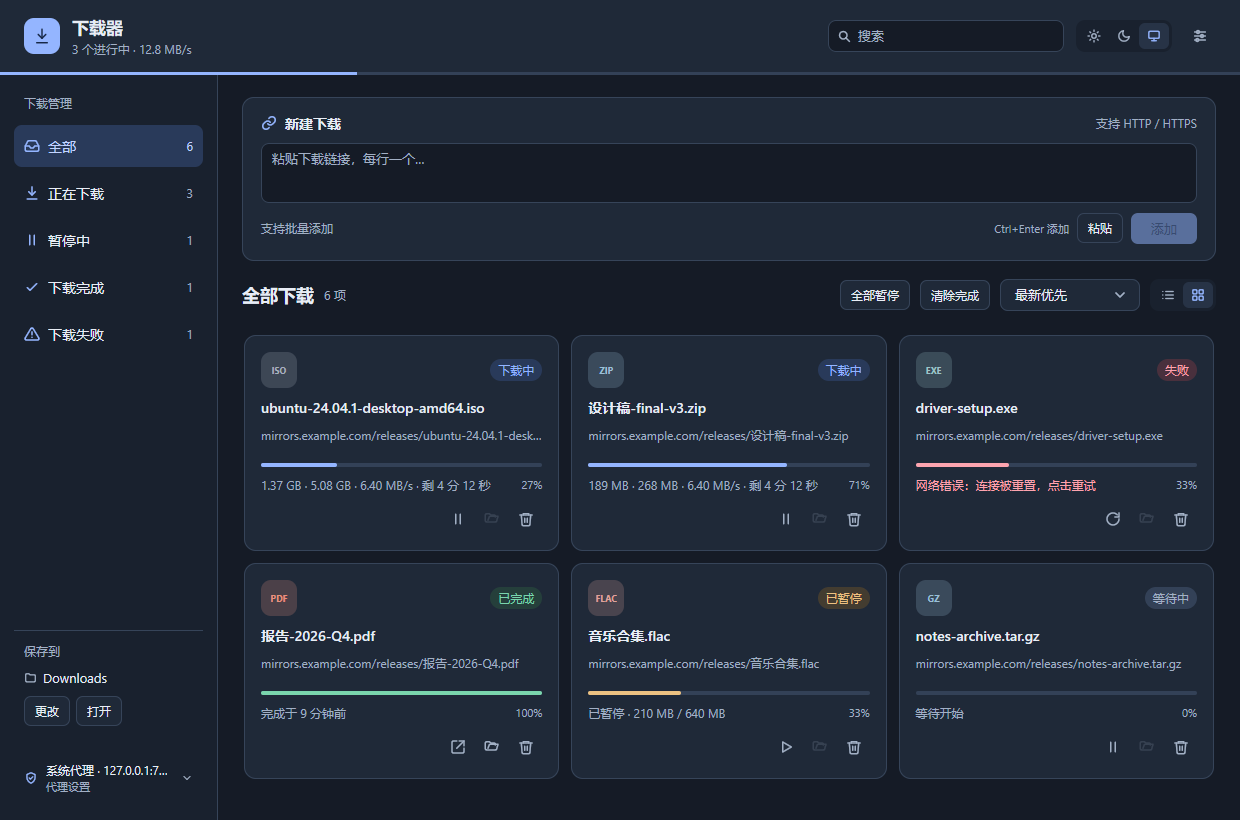
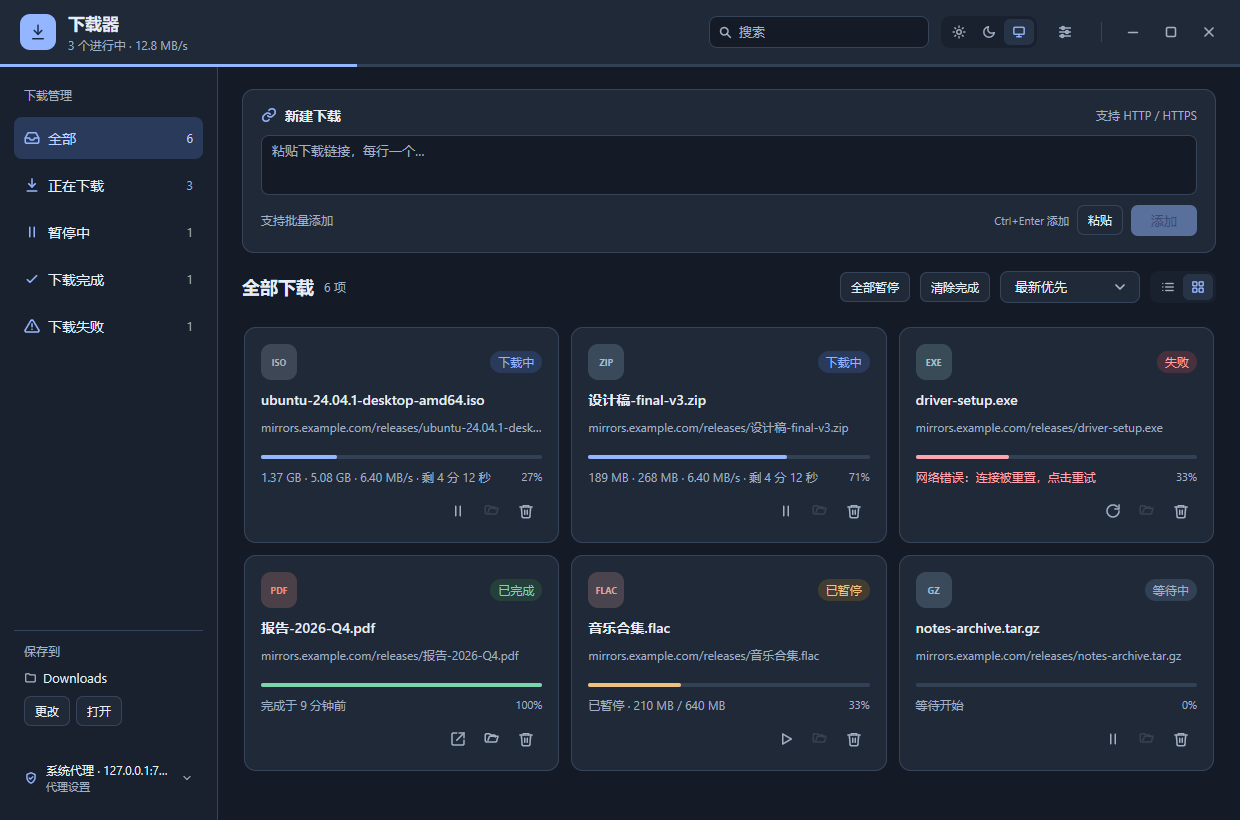
Add themed custom title bar and window controls
Integrate window dragging and compact caption buttons with light and dark themes, maximize/restore state, and Windows snap layouts. Add interaction coverage, hover snapshots, and updated documentation screenshots.

diff --git a/view_titlebar_test.go b/view_titlebar_test.go
@@ -1,0 +1,120 @@
+package main
+
+import (
+	"testing"
+
+	"github.com/egoist/mygo/ui"
+)
+
+type testTitleBarWindow struct {
+	maximized      bool
+	minimized      int
+	maximizedCalls int
+	restored       int
+	closed         int
+}
+
+func (w *testTitleBarWindow) Minimize() { w.minimized++ }
+func (w *testTitleBarWindow) Maximize() {
+	w.maximized = true
+	w.maximizedCalls++
+}
+func (w *testTitleBarWindow) Unmaximize() {
+	w.maximized = false
+	w.restored++
+}
+func (w *testTitleBarWindow) IsMaximized() bool { return w.maximized }
+func (w *testTitleBarWindow) Close()            { w.closed++ }
+
+func TestTitleBarWindowActions(t *testing.T) {
+	for _, dark := range []bool{false, true} {
+		name := "light"
+		if dark {
+			name = "dark"
+		}
+		t.Run(name, func(t *testing.T) {
+			window := &testTitleBarWindow{}
+			modal := false
+			tt := ui.NewTester(func(c *ui.Context) {
+				p := paletteFor(c.Theme().Dark)
+				c.SetTheme(p.theme())
+				ui.Row(c).FillWidth().Height(titleBarHeight).DragWindow().Children(func() {
+					ui.Spacer(c)
+					windowButtons(c, p, window)
+				})
+				if modal {
+					ui.Modal(c, &modal, func() { ui.Text(c, "设置") })
+				}
+			}, 960, 640)
+			tt.SetDark(dark)
+			if err := tt.Click("最小化窗口"); err != nil {
+				t.Fatal(err)
+			}
+			if err := tt.Click("最大化窗口"); err != nil {
+				t.Fatal(err)
+			}
+			if !window.maximized || !tt.HasText("还原窗口") {
+				t.Fatal("maximizing did not update the control")
+			}
+			// The same keyed button keeps keyboard focus as its label changes.
+			tt.Key(0, ui.KeyEnter)
+			if window.maximized || !tt.HasText("最大化窗口") {
+				t.Fatal("the restore control lost focus after maximizing")
+			}
+			// A title-bar double click or system command changes native state too.
+			window.maximized = true
+			tt.Frame()
+			if err := tt.Click("还原窗口"); err != nil {
+				t.Fatal(err)
+			}
+			modal = true
+			tt.Frame()
+			if err := tt.Click("关闭窗口"); err != nil {
+				t.Fatal(err)
+			}
+			if window.closed != 0 {
+				t.Fatal("a modal let a click reach the window close button")
+			}
+			if err := tt.Click("关闭窗口"); err != nil {
+				t.Fatal(err)
+			}
+			if window.minimized != 1 || window.maximizedCalls != 1 || window.restored != 2 || window.closed != 1 {
+				t.Fatalf("unexpected window actions: %+v", window)
+			}
+		})
+	}
+}
+
+func TestTitleBarAtMinimumWindowSize(t *testing.T) {
+	a := newTestApp(t, &fakeEngine{})
+	tt := testerFor(a)
+	tt.SetSize(960, 640)
+	for _, label := range []string{"最小化窗口", "最大化窗口", "关闭窗口"} {
+		r, ok := tt.Find(label)
+		if !ok || r.X < 0 || r.Y < 0 || r.X+r.W > 960 || r.Y+r.H > titleBarHeight {
+			t.Fatalf("%s is outside the title bar: %+v", label, r)
+		}
+	}
+	if err := tt.Click("搜索下载"); err != nil {
+		t.Fatal(err)
+	}
+	tt.Type("file")
+	if a.query != "file" {
+		t.Fatal("the draggable title bar swallowed search input")
+	}
+	if err := tt.Click("深色"); err != nil {
+		t.Fatal(err)
+	}
+	if !a.dark {
+		t.Fatal("the draggable title bar swallowed the theme control")
+	}
+	if err := tt.Click("设置"); err != nil {
+		t.Fatal(err)
+	}
+	if !a.settingsOpen {
+		t.Fatal("the draggable title bar swallowed the settings control")
+	}
+	if err := tt.Click("完成"); err != nil {
+		t.Fatal(err)
+	}
+}

diff --git a/view.go b/view.go
@@ -65,28 +65,36 @@ func (a *app) shortcuts(c *ui.Context) {
 	}
 }
 
-// header is the app's top bar.
+// header is the custom title bar. Interactive children take their own input;
+// the remaining area drags the window and handles title-bar double clicks.
 func (a *app) header(c *ui.Context, summary download.Summary) {
 	p := a.palette
-	ui.Row(c).Height(72).FillWidth().Padding(0, 24).Gap(12).AlignItems(ui.Center).Background(p.Card).Children(func() {
-		logo := ui.Box(c).Size(36, 36).Radius(10).Background(p.Accent)
-		logo.Center()
-		logo.Children(func() {
-			ui.Icon(c, icoDownload).FontSize(18).TextColor(p.OnAccent)
+	ui.Row(c).Height(titleBarHeight).FillWidth().Background(p.Card).DragWindow().Children(func() {
+		ui.Row(c).Grow(1).Padding(0, 20).Gap(12).AlignItems(ui.Center).Children(func() {
+			logo := ui.Box(c).Size(36, 36).Radius(10).Background(p.Accent)
+			logo.Center()
+			logo.Children(func() {
+				ui.Icon(c, icoDownload).FontSize(18).TextColor(p.OnAccent)
+			})
+			ui.Column(c).Gap(3).Children(func() {
+				ui.Text(c, "下载器").FontSize(17).Bold()
+				ui.Text(c, headerSubtitle(summary)).FontSize(12).TextColor(p.Muted)
+			})
+			ui.Spacer(c)
+			search := ui.SearchField(c, &a.query).Width(220).FontSize(13).
+				Background(p.Canvas).Label("搜索下载").Placeholder("搜索文件名或链接")
+			if a.focusSearch {
+				search.Focus()
+				a.focusSearch = false
+			}
+			a.themeSwitch(c)
+			iconButton(c, p, "设置", icoSettings, false, func() { a.openSettings(0) })
 		})
-		ui.Column(c).Gap(3).Children(func() {
-			ui.Text(c, "下载器").FontSize(17).Bold()
-			ui.Text(c, headerSubtitle(summary)).FontSize(12).TextColor(p.Muted)
-		})
-		ui.Spacer(c)
-		search := ui.SearchField(c, &a.query).Width(236).FontSize(13).
-			Background(p.Canvas).Label("搜索下载").Placeholder("搜索文件名或链接")
-		if a.focusSearch {
-			search.Focus()
-			a.focusSearch = false
+		var window titleBarWindow
+		if a.win != nil {
+			window = a.win
 		}
-		a.themeSwitch(c)
-		iconButton(c, p, "设置", icoSettings, false, func() { a.openSettings(0) })
+		windowButtons(c, p, window)
 	})
 }
 

diff --git a/view_titlebar.go b/view_titlebar.go
@@ -1,0 +1,69 @@
+package main
+
+import "github.com/egoist/mygo/ui"
+
+const titleBarHeight = 64
+
+// titleBarWindow is implemented by *mygo.Window. Close follows the normal
+// window lifecycle, including the app's save-on-quit handler.
+type titleBarWindow interface {
+	Minimize()
+	Maximize()
+	Unmaximize()
+	IsMaximized() bool
+	Close()
+}
+
+func windowButtons(c *ui.Context, p palette, window titleBarWindow) {
+	services := c.Services()
+	ui.Row(c.Key("window-controls")).Height(titleBarHeight).Padding(0, 14, 0, 0).
+		Gap(4).AlignItems(ui.Center).Children(func() {
+		ui.Box(c).Size(1, 20).Background(p.Border).Margin(0, 10, 0, 0)
+		windowButton(c.Key("minimize"), p, "最小化窗口", icoMinimize, false).OnClick(func() {
+			if window != nil {
+				window.Minimize()
+			}
+		})
+		label, icon := "最大化窗口", icoMaximize
+		if window != nil && window.IsMaximized() {
+			label, icon = "还原窗口", icoRestore
+		}
+		windowButton(c.Key("maximize"), p, label, icon, false).MaximizeButton().OnClick(func() {
+			if window != nil {
+				if window.IsMaximized() {
+					window.Unmaximize()
+				} else {
+					window.Maximize()
+				}
+				services.Invalidate()
+			}
+		})
+		windowButton(c.Key("close"), p, "关闭窗口", icoWindowX, true).OnClick(func() {
+			if window != nil {
+				window.Close()
+			}
+		})
+	})
+}
+
+func windowButton(c *ui.Context, p palette, label string, icon *ui.SVG, isClose bool) ui.Element {
+	button := ui.ButtonBase(c).Size(34, 32).Radius(8).Center().
+		Label(label).Tooltip(label)
+	fg := p.Muted
+	if button.Pressed() {
+		button.Background(p.Track)
+		fg = p.Text
+	} else if button.Hovered() {
+		button.Background(p.CardHover)
+		fg = p.Text
+	}
+	if isClose && (button.Hovered() || button.Pressed()) {
+		button.Background(p.DangerTint)
+		if button.Pressed() {
+			button.Background(p.DangerTint.Mix(p.Danger, 0.12))
+		}
+		fg = p.Danger
+	}
+	button.Children(func() { ui.Icon(c, icon).FontSize(16).TextColor(fg) })
+	return button
+}

diff --git a/icons.go b/icons.go
@@ -8,11 +8,20 @@ func svgIcon(shapes string) *ui.SVG {
 	return ui.MustParseSVG([]byte(`<svg xmlns="http://www.w3.org/2000/svg" viewBox="0 0 24 24" fill="none" stroke="currentColor" stroke-width="2" stroke-linecap="round" stroke-linejoin="round">` + shapes + `</svg>`))
 }
 
+// windowIcon keeps caption glyphs balanced on a smaller, finer stroke grid.
+func windowIcon(shapes string) *ui.SVG {
+	return ui.MustParseSVG([]byte(`<svg xmlns="http://www.w3.org/2000/svg" viewBox="0 0 16 16" fill="none" stroke="currentColor" stroke-width="1.25" stroke-linecap="round" stroke-linejoin="round">` + shapes + `</svg>`))
+}
+
 var (
 	icoDownload   = svgIcon(`<path d="M12 3v12"/><path d="m7 10 5 5 5-5"/><path d="M5 21h14"/>`)
 	icoPlay       = svgIcon(`<path d="M7 4.5v15l13-7.5z"/>`)
 	icoPause      = svgIcon(`<path d="M8.5 5v14"/><path d="M15.5 5v14"/>`)
 	icoX          = svgIcon(`<path d="m6 6 12 12"/><path d="m18 6-12 12"/>`)
+	icoMinimize   = windowIcon(`<path d="M3.5 8.5h9"/>`)
+	icoMaximize   = windowIcon(`<rect x="3.5" y="3.5" width="9" height="9" rx="1"/>`)
+	icoRestore    = windowIcon(`<path d="M5.5 2.5h7a1 1 0 0 1 1 1v7"/><rect x="2.5" y="5.5" width="8" height="8" rx="1"/>`)
+	icoWindowX    = windowIcon(`<path d="m4 4 8 8m0-8-8 8"/>`)
 	icoRefresh    = svgIcon(`<path d="M21 12a9 9 0 1 1-2.6-6.4"/><path d="M21 3v6h-6"/>`)
 	icoFolder     = svgIcon(`<path d="M3 7a2 2 0 0 1 2-2h4l2 2h8a2 2 0 0 1 2 2v9a2 2 0 0 1-2 2H5a2 2 0 0 1-2-2z"/>`)
 	icoFolderPlus = svgIcon(`<path d="M3 7a2 2 0 0 1 2-2h4l2 2h8a2 2 0 0 1 2 2v9a2 2 0 0 1-2 2H5a2 2 0 0 1-2-2z"/><path d="M12 11v6"/><path d="M9 14h6"/>`)

diff --git a/snapshot_test.go b/snapshot_test.go
@@ -66,6 +66,33 @@ func TestSnapshots(t *testing.T) {
 	tt.Frame()
 	save("dark-list.png", tt)
 
+	// Review compact caption controls at rest and under the pointer in both
+	// themes, including their actual size at 125% display scaling.
+	caption := ui.NewTester(func(c *ui.Context) {
+		a.palette = paletteFor(c.Theme().Dark)
+		c.SetTheme(a.palette.theme())
+		a.header(c, a.summary)
+	}, 1240, titleBarHeight)
+	caption.SetLocale("zh-Hans")
+	caption.SetScale(1.25)
+	for _, dark := range []bool{false, true} {
+		name := "light"
+		if dark {
+			name = "dark"
+		}
+		caption.SetDark(dark)
+		for _, button := range []struct{ label, name string }{
+			{"最大化窗口", "maximize"}, {"关闭窗口", "close"},
+		} {
+			r, ok := caption.Find(button.label)
+			if !ok {
+				t.Fatalf("missing caption control %s", button.label)
+			}
+			caption.Move(r.X+r.W/2, r.Y+r.H/2)
+			save(name+"-titlebar-"+button.name+"-hover.png", caption)
+		}
+	}
+
 	a.input = "https://example.com/file.zip"
 	a.selection.Add("d1")
 	tt.Frame()

diff --git a/app.go b/app.go
@@ -211,14 +211,17 @@ func (a *app) start() {
 	}
 	a.deps.applyTheme(a.s.Theme)
 	a.win = mygo.NewWindow(mygo.WindowOptions{
-		Title:           "下载器",
-		Width:           1200,
-		Height:          800,
-		MinWidth:        960,
-		MinHeight:       640,
-		StateKey:        "main",
-		BackgroundColor: "light-dark(#F4F6FA, #151B26)",
-		Content:         ui.View(a.view),
+		Title:             "下载器",
+		Width:             1200,
+		Height:            800,
+		MinWidth:          960,
+		MinHeight:         640,
+		StateKey:          "main",
+		TitleBarStyle:     mygo.TitleBarHidden,
+		TitleBarHeight:    titleBarHeight,
+		HideWindowButtons: true,
+		BackgroundColor:   "light-dark(#F4F6FA, #151B26)",
+		Content:           ui.View(a.view),
 	})
 	a.engine.SetOnChange(a.onEngineChange)
 	a.engine.SetOnComplete(a.onEngineComplete)

diff --git a/README.md b/README.md
@@ -19,7 +19,7 @@
 - **保存目录**：默认系统下载文件夹，可在设置中选择并校验可写；新任务即时使用新目录。
 - **文件管理**：列表 / 卡片切换、搜索、状态筛选、排序、多选批量操作、双击或点击打开文件、在文件夹中显示、复制链接或保存路径、从列表移除、删除文件。
 - **断点续传**：HTTP Range + `If-Range`，下载中的数据保存在 `<文件名>.part`，元信息在同名 `.part.meta`；暂停、退出、应用重启后都能继续。服务器不支持 Range、没有可用的强 ETag/Last-Modified、文件版本变化或分段不匹配时，会自动从头重下，避免拼接不同版本的数据。
-- **体验**：深/浅色与跟随系统（窗口标题栏同步）、下载完成系统通知、添加后自动开始（关闭时新任务以暂停状态加入）、并发数设置、两个主题都经过逐帧渲染检查。
+- **体验**：自定义标题栏与窗口按钮，支持拖动、双击最大化/还原和 Windows 11 贴靠布局；深/浅色与跟随系统、下载完成系统通知、添加后自动开始（关闭时新任务以暂停状态加入）、并发数设置，两个主题都经过逐帧渲染检查。
 - **中文优先**：应用文案为中文，MyGo 自带的控件、菜单与对话框也通过 `zh-Hans` 语言包显示中文。
 
 ## 运行与构建
@@ -94,7 +94,7 @@ go tool mygo build -platform windows/amd64,darwin/universal,linux/amd64
 
 ```
 main.go / app.go / deps.go     应用装配、生命周期、持久化与异步调度
-view*.go                       原生 UI：头部、侧边栏、添加卡、列表/卡片、设置与确认弹窗
+view*.go                       原生 UI：自定义标题栏、侧边栏、添加卡、列表/卡片、设置与确认弹窗
 style.go / icons.go / format.go 调色板、自定义 MyGo 主题、内联图标与格式化
 internal/proxy                 代理配置、系统代理探测、HTTP/SOCKS5 传输
 internal/download              下载队列、Range 续传、重试、文件名与任务记录
